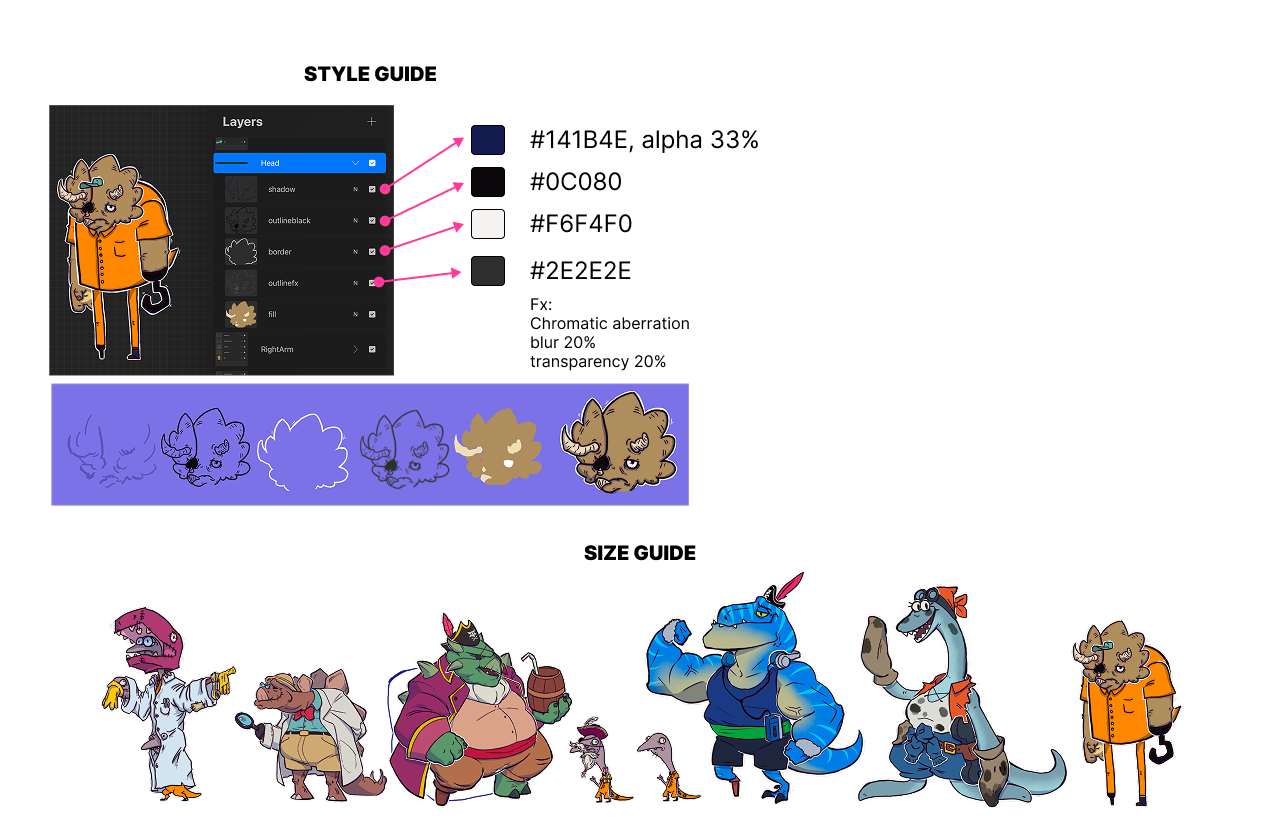
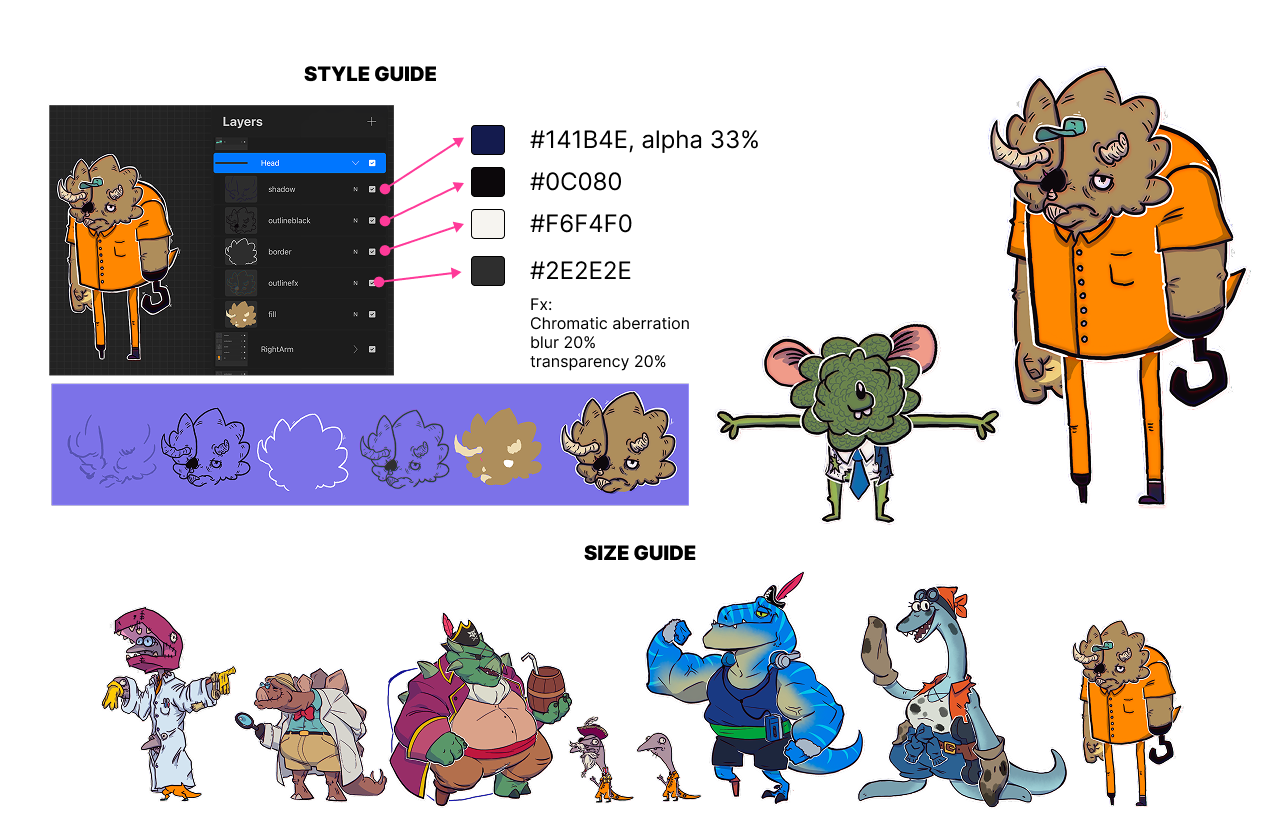
content done

Changed region(s): [[0.5625, 0.0625, 0.9688, 0.625]]

diff --git a/_portfolio/dinopiratesPlaydate.md b/_portfolio/dinopiratesPlaydate.md
@@ -42,7 +42,7 @@ The main character changed early on from a Styracosaurus to a Triceratops, not f
 <figure class="figimg">
   <img src="/assets/projects/dp-design.png" alt="braveup design system">
   <figcaption>
-    [placeholder] Character evolution — from sketch to pixel art. The design went through several iterations before the Triceratops locked in as the lead.
+    Character evolution — from sketch to pixel art. The design went through several iterations before the Triceratops locked in as the lead.
   </figcaption>
 </figure>
 
@@ -57,7 +57,7 @@ The in-game menu was rebuilt multiple times. The final version uses a layered ap
 <figure class="figimg">
   <img src="/assets/projects/dp-ui.png" alt="braveup design system">
   <figcaption>
-    [placeholder] In-game UI breakdown — HUD elements, menu states, and how each layer expands on demand.
+    With such a tiny screen most of the UI had to relay in animations to make it pop in a small black and white space, while staying minimal as posible to maintain the screen real state for the game.
   </figcaption>
 </figure>
 
@@ -80,7 +80,7 @@ The result is a cross-platform **SwiftUI** app (**iOS** + **macOS**) built entir
 <figure class="figimg">
   <img src="/assets/projects/dp-level.png" alt="braveup design system">
   <figcaption>
-    [placeholder] LevelGenerator — the canvas, script editor, and trigger hierarchy side by side.
+    LevelGenerator, a vibe coded tool to create levels, that later was replaced for LDTK and refactored to be the tool to create dialogues in the game.
   </figcaption>
 </figure>
 
@@ -116,7 +116,7 @@ The visual tone is 90s action cartoon: loud, committed, absurdist without losing
 <figure class="figimg">
  <img src="/assets/projects/dp-guide.png" alt="braveup design system">
   <figcaption>
-    [placeholder] Art direction sheet — color palette, tone references, and key visual decisions that define the Unity version's aesthetic. Should show the 90s cartoon energy and how it translates to the game's environments and characters.
+    Art direction sheet — The universe is a mix of 90s cartoon style with a touch of Street art, such as Graffiti and Sticker art.
   </figcaption>
 </figure>
 
@@ -140,7 +140,7 @@ The Inner Space is a sci-fi setting that explains itself through the game's fict
 <figure class="figimg">
  <img src="/assets/projects/dp-screens.png" alt="braveup design system">
   <figcaption>
-    [placeholder] UI screens — run summary, build selection, or crew management in the Unity version. Should use the established visual identity and feel like in-universe interfaces, not generic game menus.
+    UI screens — Beta release screens, since this is a work in progress most of this screens are changing weekly depending on user feedback.
   </figcaption>
 </figure>
 